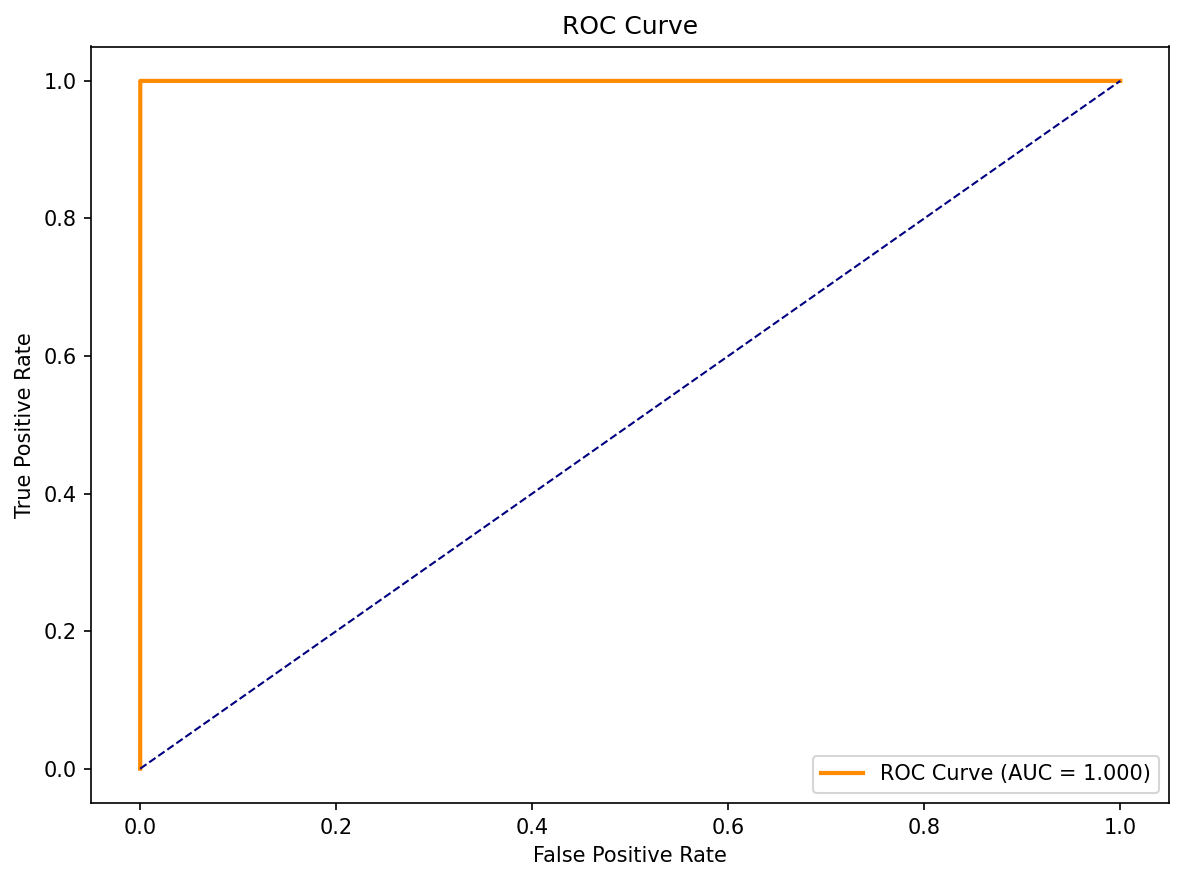
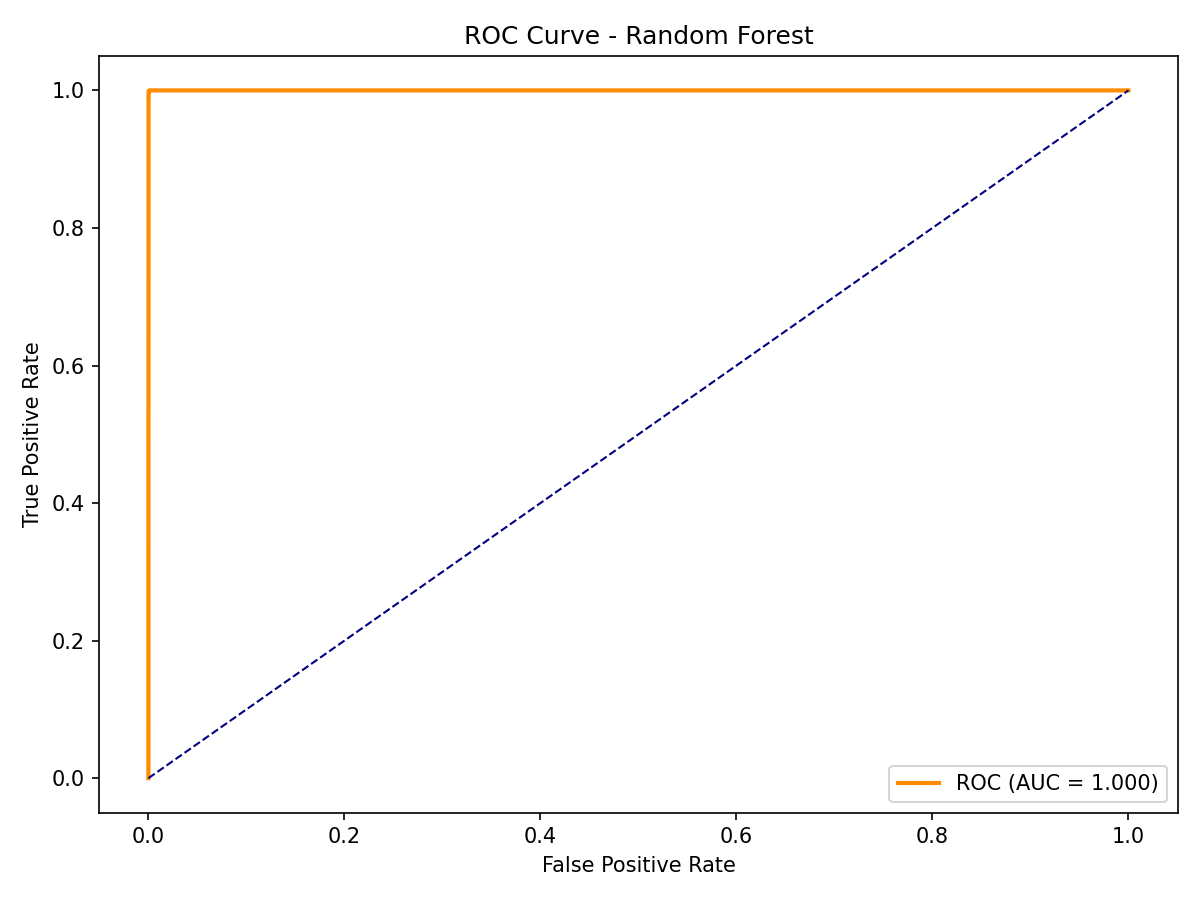
updated the model and ran the python files to confim the model. also made sure that the model is not overfitting. yessss

diff --git a/ml/evaluation.py b/ml/evaluation.py
@@ -68,3 +68,35 @@ if __name__ == "__main__":
 
     evaluate_model("XGBoost (Tuned)", y_test, y_pred_xgb, y_proba_xgb)
     evaluate_model("Random Forest",   y_test, y_pred_rf,  y_proba_rf)
+
+
+
+
+print("\n" + "="*45)
+print("OVERFITTING CHECK")
+print("="*45)
+
+X_train = pd.read_csv('../data/X_train.csv')
+y_train = pd.read_csv('../data/y_train.csv').squeeze()
+
+# Evaluate on TRAINING data
+y_pred_train  = xgb.predict(X_train)
+y_proba_train = xgb.predict_proba(X_train)[:, 1]
+
+train_f1  = f1_score(y_train, y_pred_train)
+train_acc = accuracy_score(y_train, y_pred_train)
+
+# Evaluate on TEST data
+test_f1  = f1_score(y_test, y_pred_xgb)
+test_acc = accuracy_score(y_test, y_pred_xgb)
+
+print(f"Train Accuracy: {train_acc:.4f}  |  Test Accuracy: {test_acc:.4f}")
+print(f"Train F1:       {train_f1:.4f}  |  Test F1:       {test_f1:.4f}")
+print(f"Difference:     {abs(train_f1 - test_f1):.4f}")
+
+if abs(train_f1 - test_f1) < 0.01:
+    print("\n✅ No overfitting — train and test scores are very close")
+elif abs(train_f1 - test_f1) < 0.05:
+    print("  Slight overfitting — acceptable for this dataset")
+else:
+    print("  Overfitting detected — model memorized training data")
